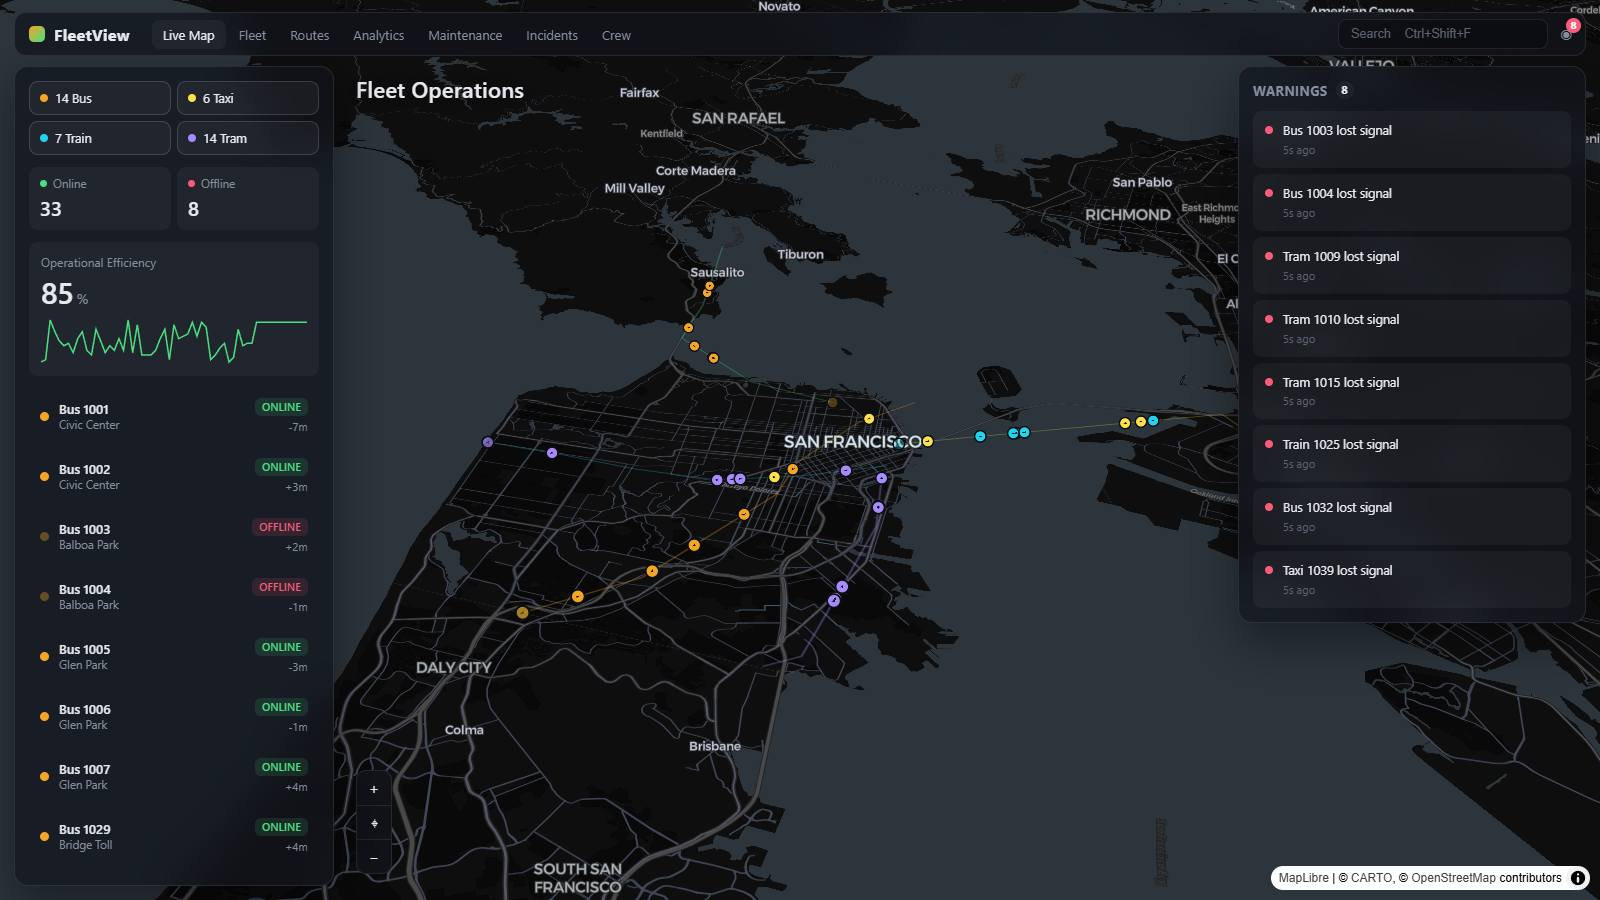
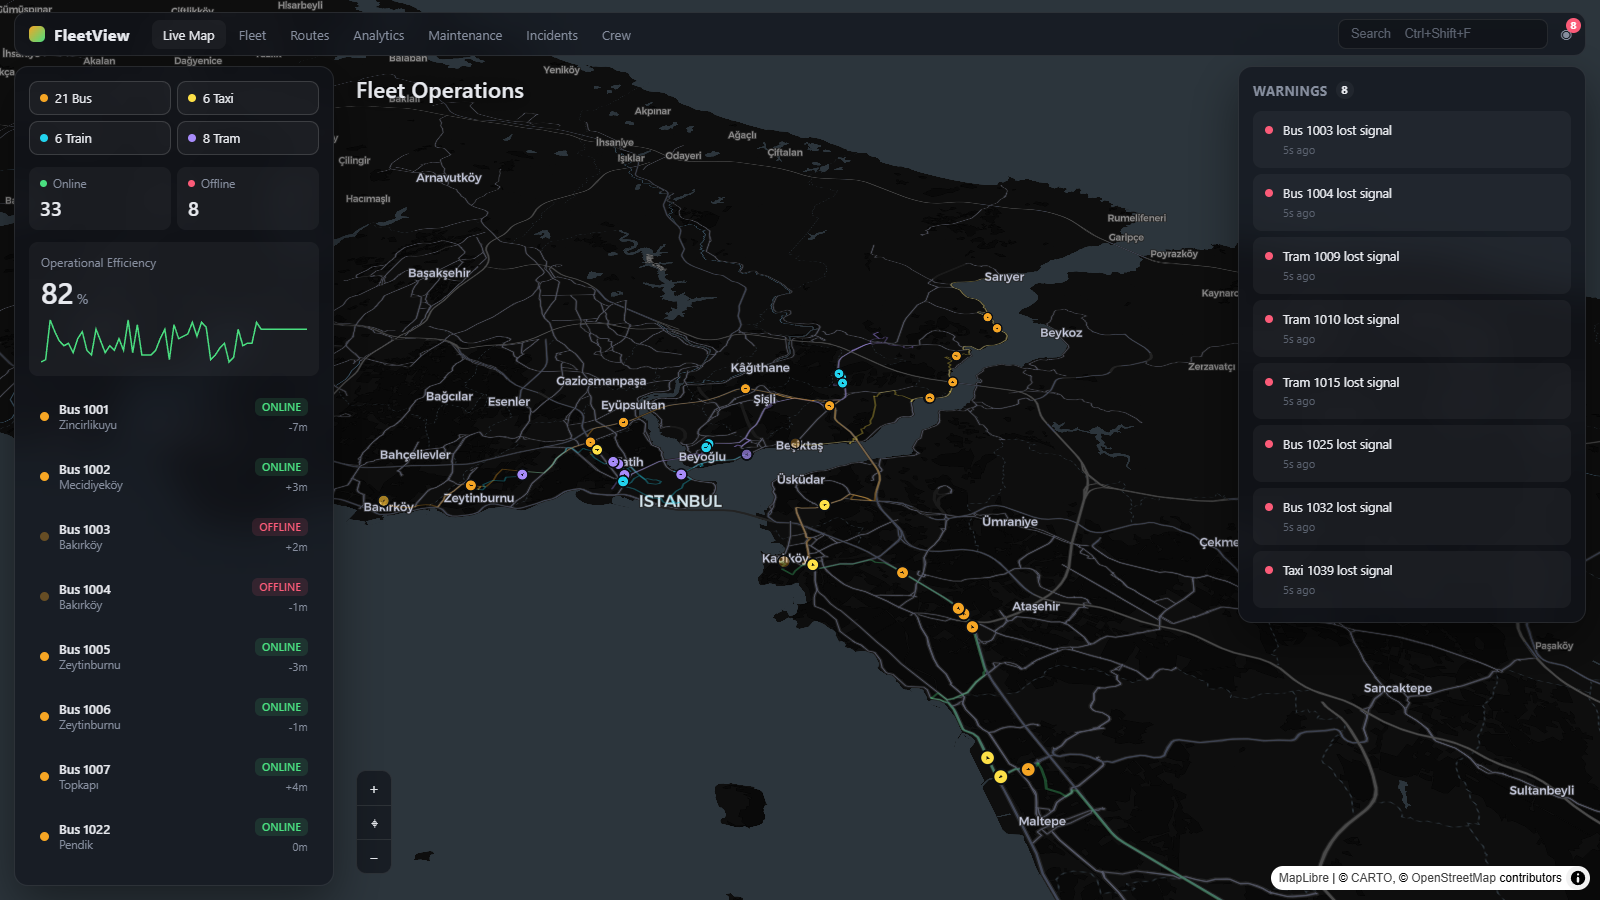
feat: relocate to Istanbul, snap routes to real roads
- routes are now 5 real Istanbul transit corridors (Metrobus, T1, M2,
  Kadikoy-Pendik, Besiktas-Sariyer), geometry road-snapped via the OSRM
  demo server and baked into src/routes.json (scripts/build-routes.mjs)
- vehicles drive along the road polyline; stop positions come from OSRM leg
  distances
- map re-centred on Istanbul

diff --git a/src/mock.ts b/src/mock.ts
@@ -1,101 +1,30 @@
 import { mulberry32, pathLengthKm, segLengths } from './geo';
-import type { LngLat, Route, Vehicle, VehicleType } from './types';
+import routesData from './routes.json';
+import type { LngLat, Route, Stop, Vehicle, VehicleType } from './types';
 
-// Hand-drawn routes around the San Francisco Bay Area. Coordinates are illustrative,
-// they do not follow real streets.
-const RAW: {
+// Road-following geometry for real Istanbul transit corridors, generated once
+// from the OSRM demo server — see scripts/build-routes.mjs.
+type RawRoute = {
   id: string;
   name: string;
   color: string;
   type: VehicleType;
-  path: LngLat[];
-  stops: string[];
-}[] = [
-  {
-    id: 'r14',
-    name: 'Route 14 · Mission',
-    color: '#f5a524',
-    type: 'bus',
-    path: [
-      [-122.4649, 37.7083],
-      [-122.4415, 37.7258],
-      [-122.4194, 37.762],
-      [-122.4189, 37.7749],
-      [-122.4074, 37.7955],
-      [-122.3937, 37.8083],
-    ],
-    stops: ['Balboa Park', 'Glen Park', '24th St', 'Civic Center', 'Washington Sq', 'Pier 39'],
-  },
-  {
-    id: 'rN',
-    name: 'Line N · Judah',
-    color: '#22d3ee',
-    type: 'tram',
-    path: [
-      [-122.5107, 37.7601],
-      [-122.4869, 37.7609],
-      [-122.4633, 37.7609],
-      [-122.4383, 37.7627],
-      [-122.4147, 37.7706],
-      [-122.3934, 37.7801],
-    ],
-    stops: ['Ocean Beach', 'Sunset', 'Inner Sunset', 'Cole Valley', 'Duboce', 'Caltrain'],
-  },
-  {
-    id: 'rT',
-    name: 'Line T · Third',
-    color: '#a78bfa',
-    type: 'tram',
-    path: [
-      [-122.3934, 37.7765],
-      [-122.3886, 37.7574],
-      [-122.3903, 37.7359],
-      [-122.3924, 37.7137],
-      [-122.4001, 37.7089],
-    ],
-    stops: ['Embarcadero', 'Dogpatch', 'Bayview', 'Sunnydale', 'Balboa Park'],
-  },
-  {
-    id: 'rTB',
-    name: 'Transbay · Bay Bridge',
-    color: '#fde047',
-    type: 'train',
-    path: [
-      [-122.3927, 37.7896],
-      [-122.3665, 37.8003],
-      [-122.3013, 37.8265],
-      [-122.2711, 37.8044],
-      [-122.2585, 37.8087],
-    ],
-    stops: ['Salesforce Transit', 'Treasure Is', 'West Oakland', 'Downtown Oakland', 'Lake Merritt'],
-  },
-  {
-    id: 'rGG',
-    name: 'Route 30 · Golden Gate',
-    color: '#4ade80',
-    type: 'bus',
-    path: [
-      [-122.4183, 37.8021],
-      [-122.4467, 37.8049],
-      [-122.4785, 37.8199],
-      [-122.4802, 37.8388],
-      [-122.4855, 37.859],
-      [-122.4899, 37.8746],
-    ],
-    stops: ['Marina', 'Presidio', 'Bridge Toll', 'Vista Point', 'Sausalito', 'Mill Valley'],
-  },
-];
+  path: number[][];
+  stops: Stop[];
+};
+
+const RAW = routesData as RawRoute[];
 
 export const ROUTES: Route[] = RAW.map((r) => {
-  const n = r.stops.length;
+  const path = r.path as LngLat[];
   return {
     id: r.id,
     name: r.name,
     color: r.color,
-    path: r.path,
-    seg: segLengths(r.path),
-    lengthKm: pathLengthKm(r.path),
-    stops: r.stops.map((name, i) => ({ name, at: n === 1 ? 0 : i / (n - 1) })),
+    path,
+    seg: segLengths(path),
+    lengthKm: pathLengthKm(path),
+    stops: r.stops,
   };
 });
 

diff --git a/src/FleetMap.tsx b/src/FleetMap.tsx
@@ -26,7 +26,7 @@ const MAP_STYLE = KEY
 // ships hillshade, and there is no reliable keyless raster-dem source.
 const DEM_URL = KEY ? `https://api.maptiler.com/tiles/terrain-rgb-v2/tiles.json?key=${KEY}` : null;
 
-const INITIAL = { longitude: -122.42, latitude: 37.78, zoom: 11.2, pitch: 55, bearing: -18 };
+const INITIAL = { longitude: 29.01, latitude: 41.04, zoom: 10.8, pitch: 55, bearing: -18 };
 
 const TYPE_COLOR_EXPR: ExpressionSpecification = [
   'match',

diff --git a/PLAN.md b/PLAN.md
@@ -39,7 +39,8 @@ This MVP takes the **look and the core interaction**, cuts the rest.
 ### Out of scope (v1) — deliberate cuts
 
 - No backend, WebSocket, auth, database.
-- No real routing engine — routes are hand-drawn polylines.
+- No live routing engine — road-following route geometry is baked once from the
+  OSRM demo server into `src/routes.json` (`scripts/build-routes.mjs`).
 - No multi-page routing — single view; nav tabs are stubs.
 - No charting library — the one sparkline is inline SVG.
 - 3D building extrusions — **stretch only** (barely visible at fleet zoom).
@@ -94,7 +95,8 @@ interface Route {
   id: string;
   name: string;                          // "Route 14"
   color: string;
-  path: [number, number][];              // GeoJSON LineString coords (hand-drawn)
+  path: [number, number][];              // road-following LineString (from OSRM)
+  seg: number[];                         // per-segment km, precomputed
   stops: { name: string; at: number }[]; // at = 0..1 fraction along path
   lengthKm: number;                      // precomputed
 }
@@ -121,10 +123,10 @@ interface Vehicle {
 
 ## 5. Mock data
 
-- **`mock/routes.ts`** — 5 hand-drawn routes in one metro area (**SF Bay Area**: terrain +
-  water resemble the reference). ~8–15 coordinate points each, drawn in geojson.io.
-  `lengthKm` precomputed once.
-- **`mock/vehicles.ts`** — ~40 vehicles seeded across routes, types, statuses, initial
+- **`src/routes.json`** — 5 real **İstanbul** transit corridors (Metrobüs, Tram T1,
+  Metro M2, Kadıköy–Pendik, Beşiktaş–Sarıyer). Waypoints in `scripts/build-routes.mjs`
+  are snapped to roads by the OSRM demo server; `seg` / `lengthKm` computed at load.
+- **`src/mock.ts`** — ~40 vehicles seeded across routes, types, statuses, initial
   progress, speed. Seeded RNG so every load looks identical.
 
 ---
@@ -289,4 +291,5 @@ README documents: get a free MapTiler key, or run keyless.
   that is why buildings are a stretch, not core.
 - **rAF + `setData` every frame** for ~40 points is trivial; if the vehicle count later grows
   past a few thousand, throttle the sim tick to ~4 Hz and interpolate in the layer.
-- City choice (SF Bay) is cosmetic — swap `mock/routes.ts` for any metro.
+- City choice (İstanbul) is cosmetic — edit corridors in `scripts/build-routes.mjs`
+  and re-run it for any metro area.

diff --git a/README.md b/README.md
@@ -1,8 +1,8 @@
 # FleetView
 
-Mock fleet-management dashboard. A 3D-tilted map of San Francisco with ~40
-simulated vehicles moving along routes in real time. Click a vehicle (on the map
-or in the list) to see its status, route, stops, and telemetry.
+Mock fleet-management dashboard. A 3D-tilted map of İstanbul with ~40 simulated
+vehicles driving real road-following routes in real time. Click a vehicle (on the
+map or in the list) to see its status, route, stops, and telemetry.
 
 Everything is faked in the browser — no backend, no network calls except map tiles.
 
@@ -34,12 +34,17 @@ cp .env.example .env
 | `npm run build` | type-check + production build |
 | `npm test` | `src/geo.test.ts` — polyline math self-check |
 | `npm run lint` | oxlint |
+| `node scripts/build-routes.mjs` | regenerate `src/routes.json` from the OSRM demo server (one-shot; edit corridors in the script) |
 
 ## How it works
 
-- **`src/mock.ts`** — 5 hand-drawn routes + ~40 seeded vehicles.
-- **`src/sim.ts`** — mutates vehicle positions each frame (bounce along the
-  polyline, drift passenger load / schedule offset, rare signal drops).
+- **`src/routes.json`** — road-following geometry for 5 İstanbul transit
+  corridors (Metrobüs, T1, M2, Kadıköy–Pendik, Beşiktaş–Sarıyer), baked once
+  from OSRM so there is no routing API at runtime.
+- **`src/mock.ts`** — loads the routes + spawns ~40 seeded vehicles.
+- **`src/sim.ts`** — mutates vehicle positions each frame (drives back and forth
+  along the road polyline, drifts passenger load / schedule offset, rare signal
+  drops).
 - **`src/useSimulation.ts`** — rAF loop pushes positions straight to the map
   source; a 2 Hz interval snapshots into the store for the panels.
 - **`src/store.ts`** — Zustand: vehicles, selection, type filters, derived alerts.
@@ -50,5 +55,6 @@ cp .env.example .env
 
 ## Not included (deliberately)
 
-Backend, auth, real routing engine, multi-page nav (top-bar tabs are visual),
-charting library, 3D building extrusions, bottom stat strips. See `PLAN.md`.
+Backend, auth, live routing engine (routes are pre-baked), multi-page nav
+(top-bar tabs are visual), charting library, 3D building extrusions, bottom stat
+strips. See `PLAN.md`.
